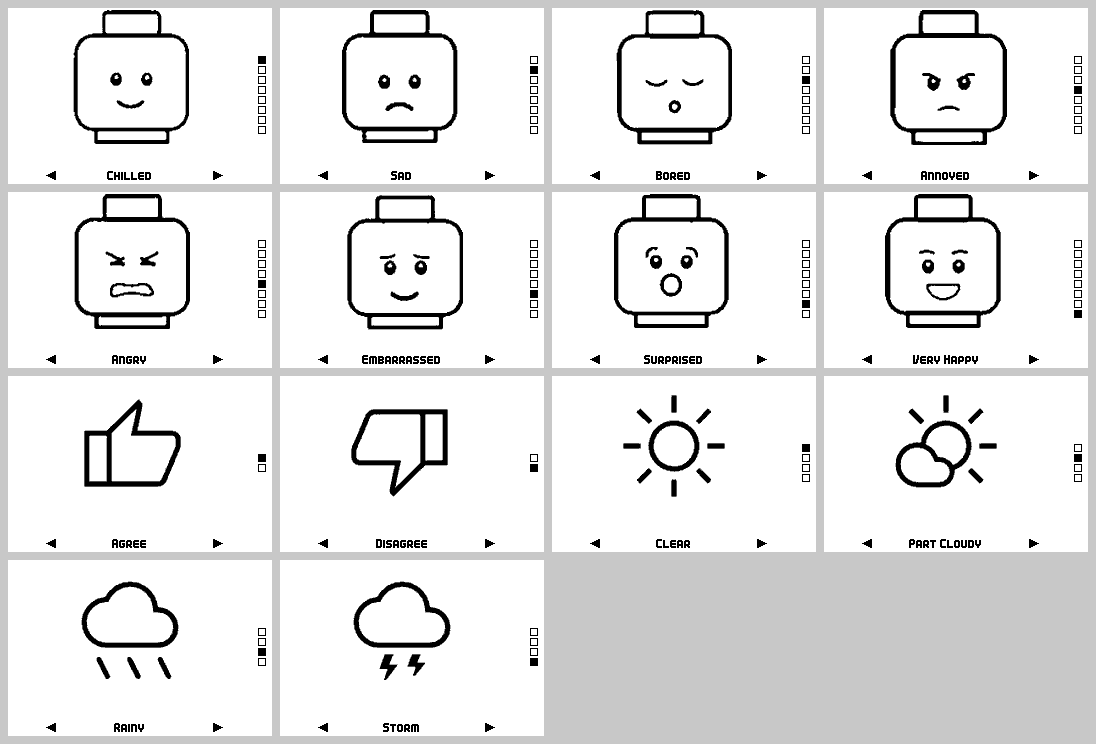
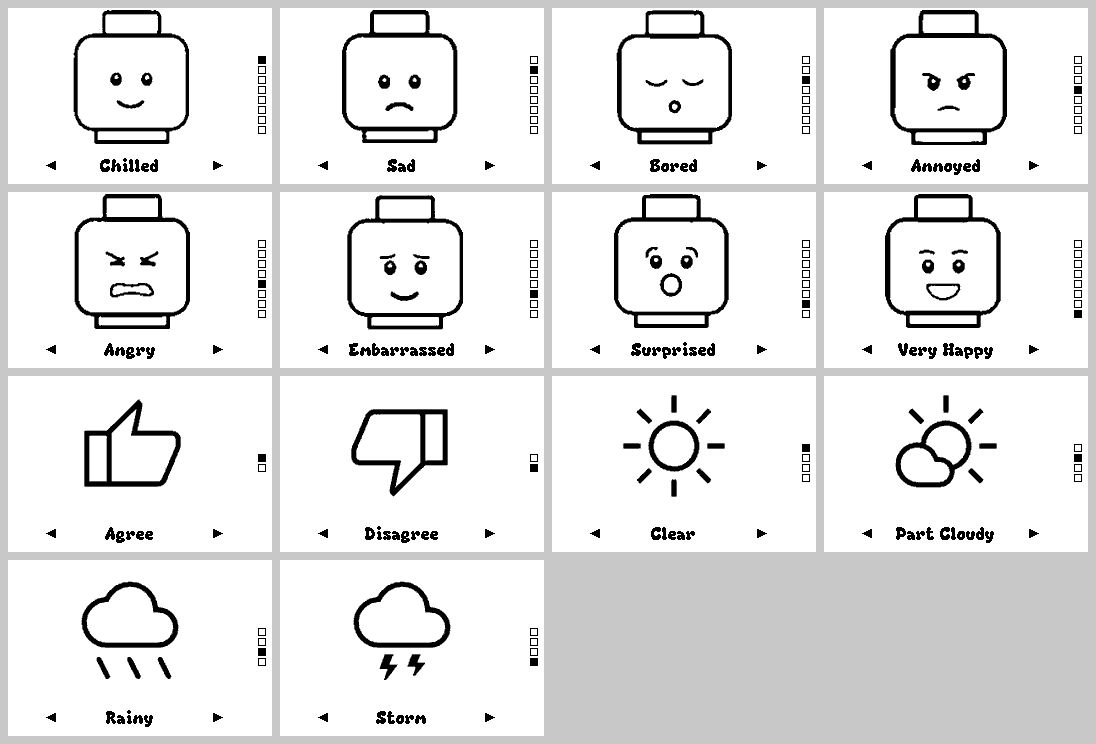
feat: show mood labels in Ziplock, centred below the picture
Labels use the larger Ziplock font and step down to Smart, then Winds,
when they do not fit between the set arrows. The label and arrows move
up to the middle of the strip below the picture, so descenders no
longer touch the bottom edge of the screen.

diff --git a/tests/test_app.py b/tests/test_app.py
@@ -11,7 +11,7 @@ def test_first_tick_draws_saved_mood_once():
     r = run_app([set()], saved={"set": 0, "mood": 2})
     assert r.events.count("display") == 1
     assert r.blits == ["assets/bored.png"]
-    assert ("Bored", "smart") in r.texts
+    assert ("Bored", "ziplock") in r.texts
 
 
 def test_framebuffer_cleared_before_drawing():
@@ -85,14 +85,14 @@ def test_each_update_waits_with_sleep_timeout():
 def test_missing_image_still_draws_label():
     r = run_app([set()], saved={"set": 0, "mood": 0}, files_missing=("assets/happy.png",))
     assert r.blits == []
-    assert ("Chilled", "smart") in r.texts
+    assert ("Chilled", "ziplock") in r.texts
 
 
 def test_undecodable_image_still_draws_label_and_keeps_working():
     # The saved mood is redrawn on every launch, so a crash here would loop forever.
     r = run_app([set(), {BUTTON_DOWN}], saved={"set": 0, "mood": 0}, files_corrupt=("assets/happy.png",))
     assert r.fatal is None
-    assert ("Chilled", "smart") in r.texts
+    assert ("Chilled", "ziplock") in r.texts
     assert r.blits == ["assets/sad.png"]
 
 
@@ -108,19 +108,29 @@ def test_missing_config_reports_error():
     assert "config.json" in run_app([set()], files_missing=("config.json",)).fatal
 
 
-def test_label_uses_smart_font():
-    assert run_app([set()]).texts == [("Chilled", "smart")]
+def label_font(label):
+    # two sets, so the arrows are shown and the label must fit between them
+    r = run_app([set()], config_text='{"moods": [[["' + label + '", "happy.png"]], [["x", "sad.png"]]]}')
+    return r.texts[0][1]
 
 
-def test_label_too_wide_to_sit_between_the_arrows_uses_winds():
-    # 21 characters of Smart (7 px each in the fake) is 147 px, wider than the gap
-    r = run_app([set()], config_text='{"moods": [[["' + "W" * 21 + '", "happy.png"]], [["x", "sad.png"]]]}')
-    assert r.texts[0][1] == "winds"
+def test_label_uses_ziplock_font():
+    assert run_app([set()]).texts == [("Chilled", "ziplock")]
 
 
-def test_label_that_fits_between_the_arrows_keeps_smart():
-    r = run_app([set()], config_text='{"moods": [[["' + "W" * 20 + '", "happy.png"]], [["x", "sad.png"]]]}')
-    assert r.texts[0][1] == "smart"
+def test_label_that_fits_between_the_arrows_keeps_ziplock():
+    # 15 characters of Ziplock (9 px each in the fake) is 135 px, inside the 140 px gap
+    assert label_font("W" * 15) == "ziplock"
+
+
+def test_label_too_wide_for_ziplock_steps_down_to_smart():
+    # 16 characters: 144 px of Ziplock is too wide, 112 px of Smart fits
+    assert label_font("W" * 16) == "smart"
+
+
+def test_label_too_wide_for_smart_steps_down_to_winds():
+    # 21 characters: 147 px of Smart is too wide
+    assert label_font("W" * 21) == "winds"
 
 
 def test_label_is_vertically_centred_on_the_arrows():

diff --git a/badger/mood_badger/__init__.py b/badger/mood_badger/__init__.py
@@ -15,8 +15,8 @@ IMAGE_POS = (61, 2)
 LABEL_CENTRE_X = 122
 # Labels sit level with the set arrows and must fit between them.
 LABEL_MAX_WIDTH = 140
-LABEL_FONT = font.smart
-NARROW_FONT = font.winds
+# Largest first; a label uses the first font it fits in, or the last one.
+LABEL_FONTS = (font.ziplock, font.smart, font.winds)
 
 try:
     with open("config.json") as f:
@@ -50,11 +50,11 @@ def draw(mood_set, mood_index):
             pass
 
     screen.pen = color.black
-    screen.font = LABEL_FONT
-    width, height = screen.measure_text(label)
-    if width > LABEL_MAX_WIDTH:
-        screen.font = NARROW_FONT
+    for label_font in LABEL_FONTS:
+        screen.font = label_font
         width, height = screen.measure_text(label)
+        if width <= LABEL_MAX_WIDTH:
+            break
     screen.text(label, LABEL_CENTRE_X - width / 2, moods.ARROW_MID_Y - height / 2)
 
     # A and C change set; the arrows above them say so. Hidden with only one set.

diff --git a/tests/test_moods.py b/tests/test_moods.py
@@ -2,6 +2,8 @@ import json
 
 import pytest
 
+import moods
+
 from moods import MAX_MOODS, SCREEN_HEIGHT, SCREEN_WIDTH, apply_input, parse_config, pip_positions, restore, set_arrows
 
 CFG = {
@@ -62,8 +64,13 @@ def test_set_arrows_point_left_above_a_and_right_above_c():
     left, right = set_arrows(3)
     assert len(left) == len(right) == 3
     # the tip is the point furthest out: left for A, right for C
-    assert min(left) == (38, 167)
-    assert max(right) == (215, 167)
+    assert min(left) == (38, 157)
+    assert max(right) == (215, 157)
+
+
+def test_set_arrows_sit_midway_between_the_picture_and_the_bottom_edge():
+    # the picture is 136 px tall at y=2, so the strip below it runs from 138 to 176
+    assert moods.ARROW_MID_Y == (138 + SCREEN_HEIGHT) // 2
 
 
 def test_set_arrows_stay_on_screen_and_clear_of_the_pips():

diff --git a/tests/test_sim.py b/tests/test_sim.py
@@ -52,7 +52,7 @@ def test_set_arrows_drawn_and_c_moves_to_next_set(tmp_path):
     assert frames["status"] == "ok"
     # filled arrows above A (left) and C (right), drawn by the real firmware
     for frame in (first, second):
-        assert black(frame, 44, 167) and black(frame, 209, 167)
+        assert black(frame, 44, 157) and black(frame, 209, 157)
     # the next set (thumbs) has two moods and opens on its first
     assert pip_filled(second, 0, count=2)
     assert not pip_filled(second, 1, count=2)

diff --git a/tests/fake_badgeware.py b/tests/fake_badgeware.py
@@ -18,7 +18,7 @@ MEDIUM_UPDATE = 2 << 4
 NON_BLOCKING = 1 << 9
 
 # Pixels per character, so tests can push labels past the width limit.
-CHAR_WIDTH = {"ignore": 12, "smart": 7, "winds": 5}
+CHAR_WIDTH = {"ignore": 12, "ziplock": 9, "smart": 7, "winds": 5}
 TEXT_HEIGHT = 20
 
 

diff --git a/badger/mood_badger/moods.py b/badger/mood_badger/moods.py
@@ -16,7 +16,8 @@ SCREEN_HEIGHT = 176
 # The x positions follow the stock Hydrate app's A and C hints.
 ARROW_A_X = 43
 ARROW_C_X = 210
-ARROW_MID_Y = 167
+# Midway down the strip between the picture (bottom at 138) and the screen edge.
+ARROW_MID_Y = 157
 ARROW_HALF = 5
 
 
